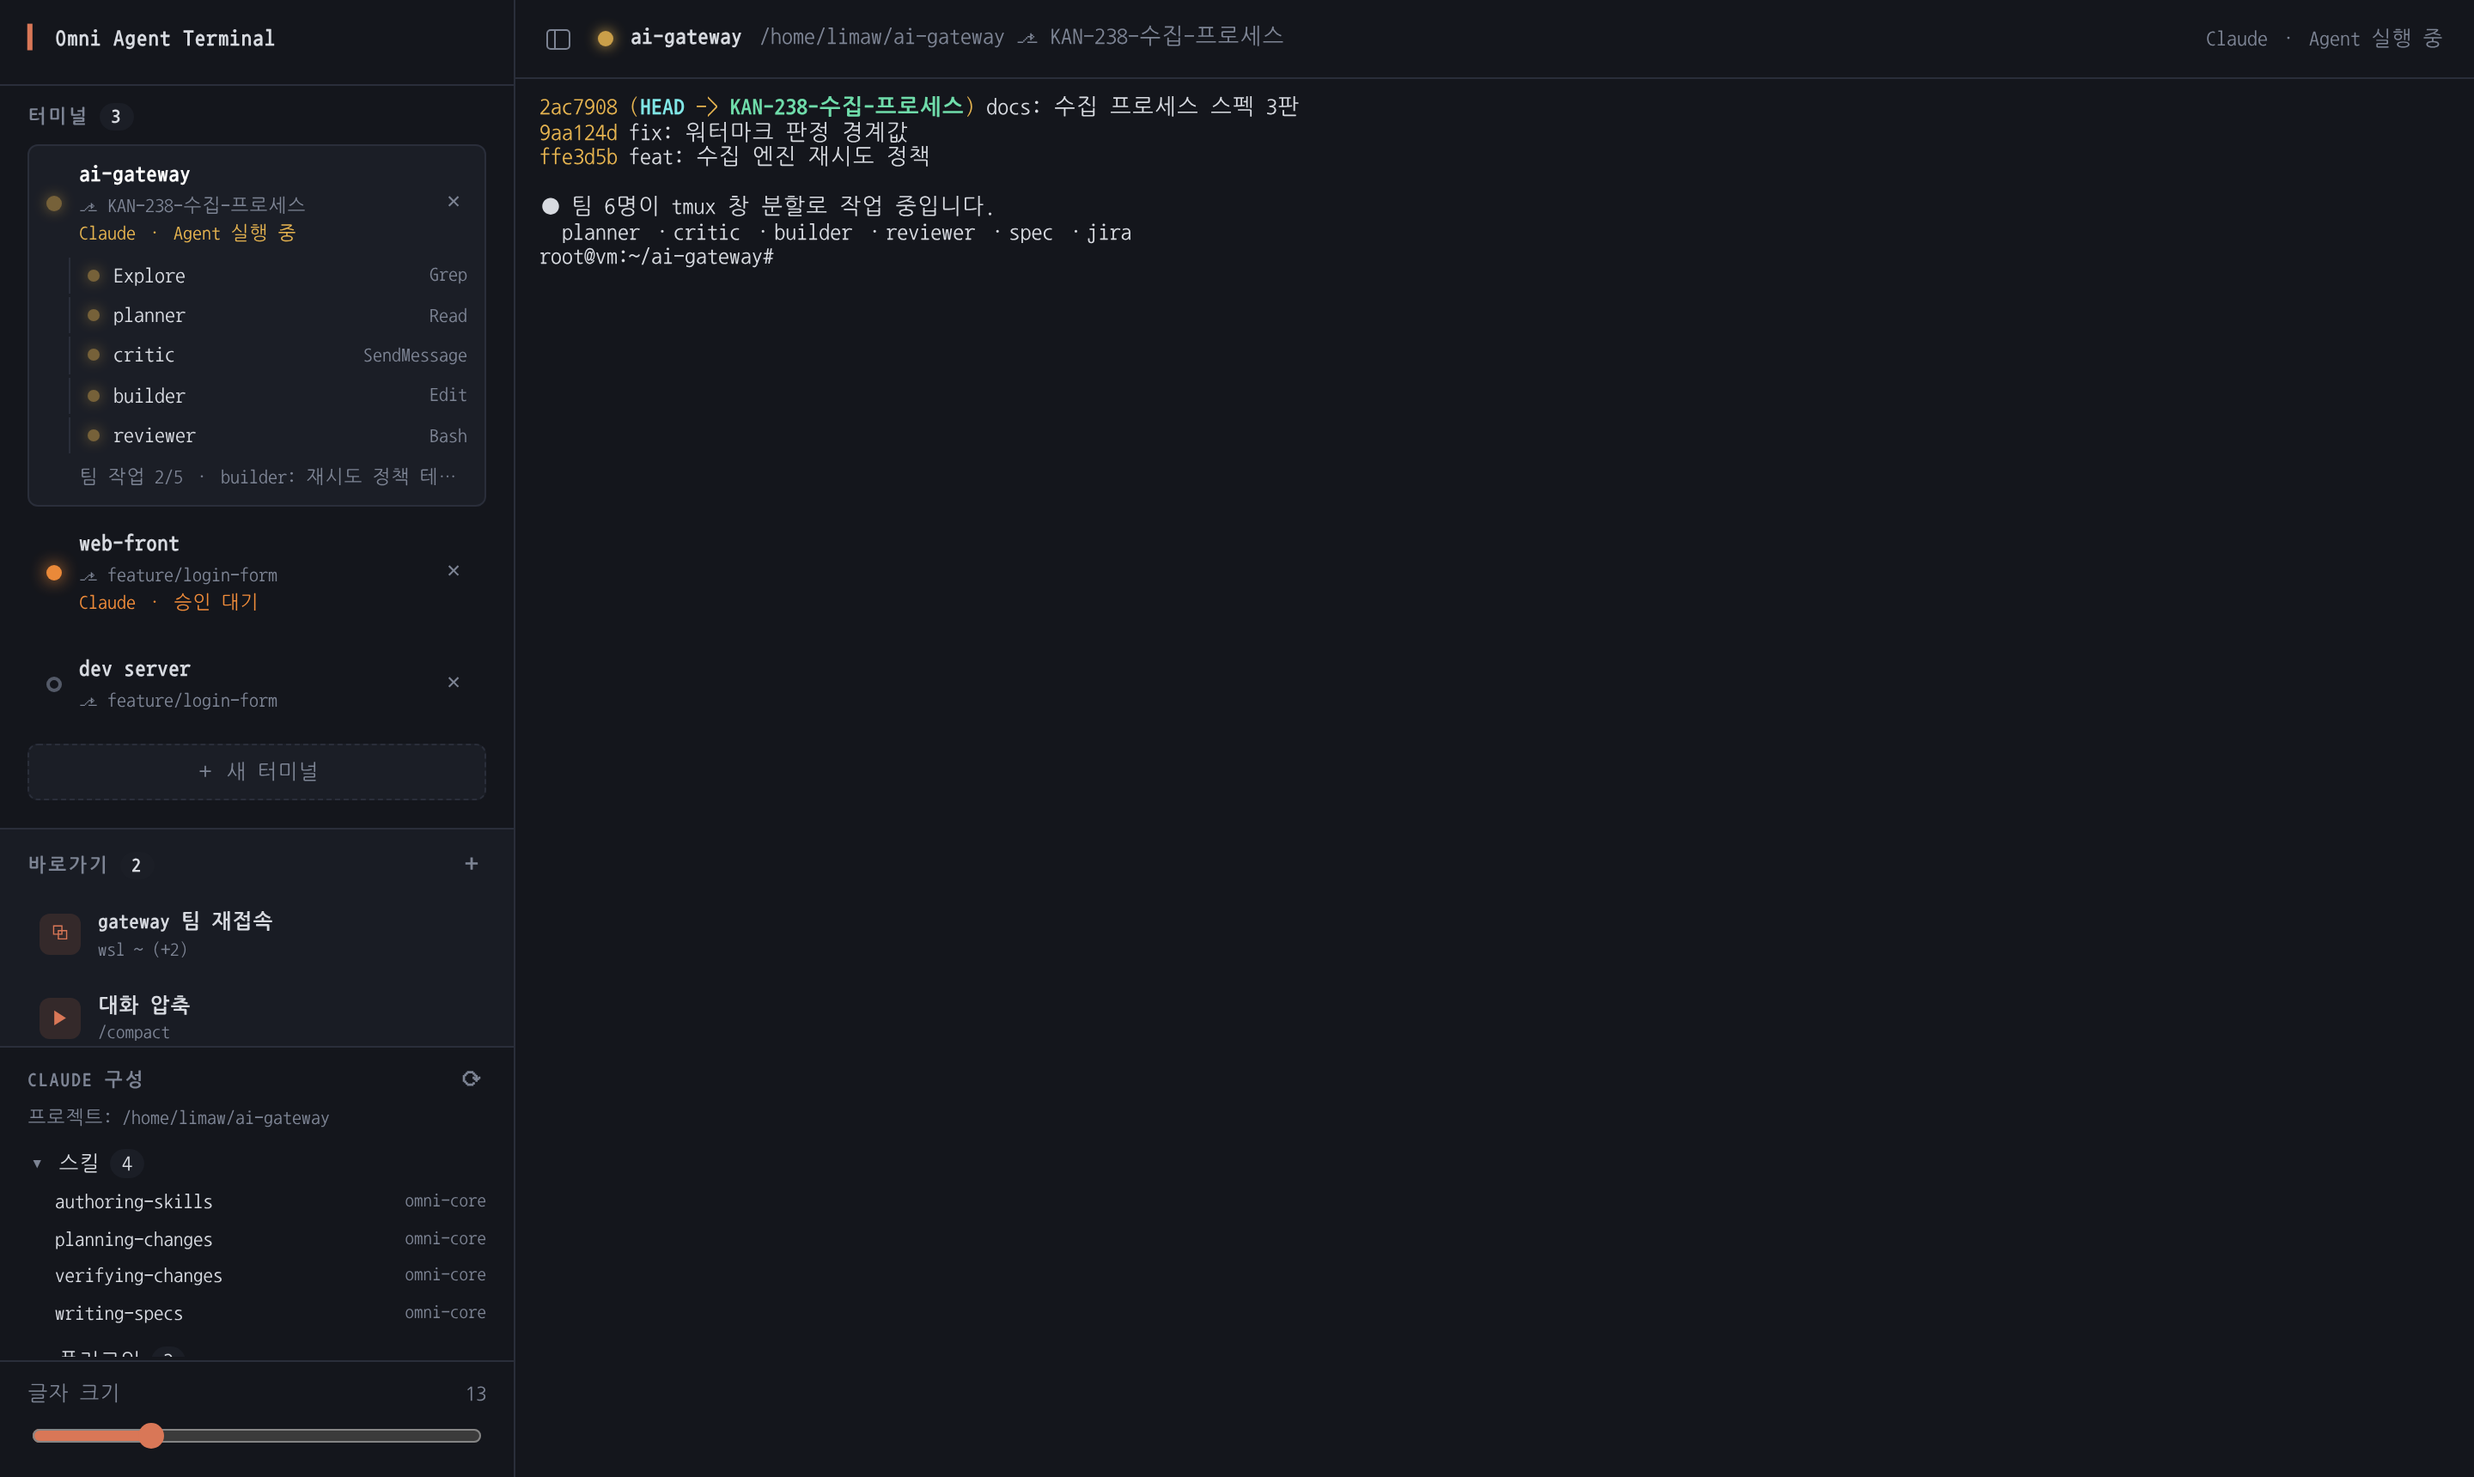
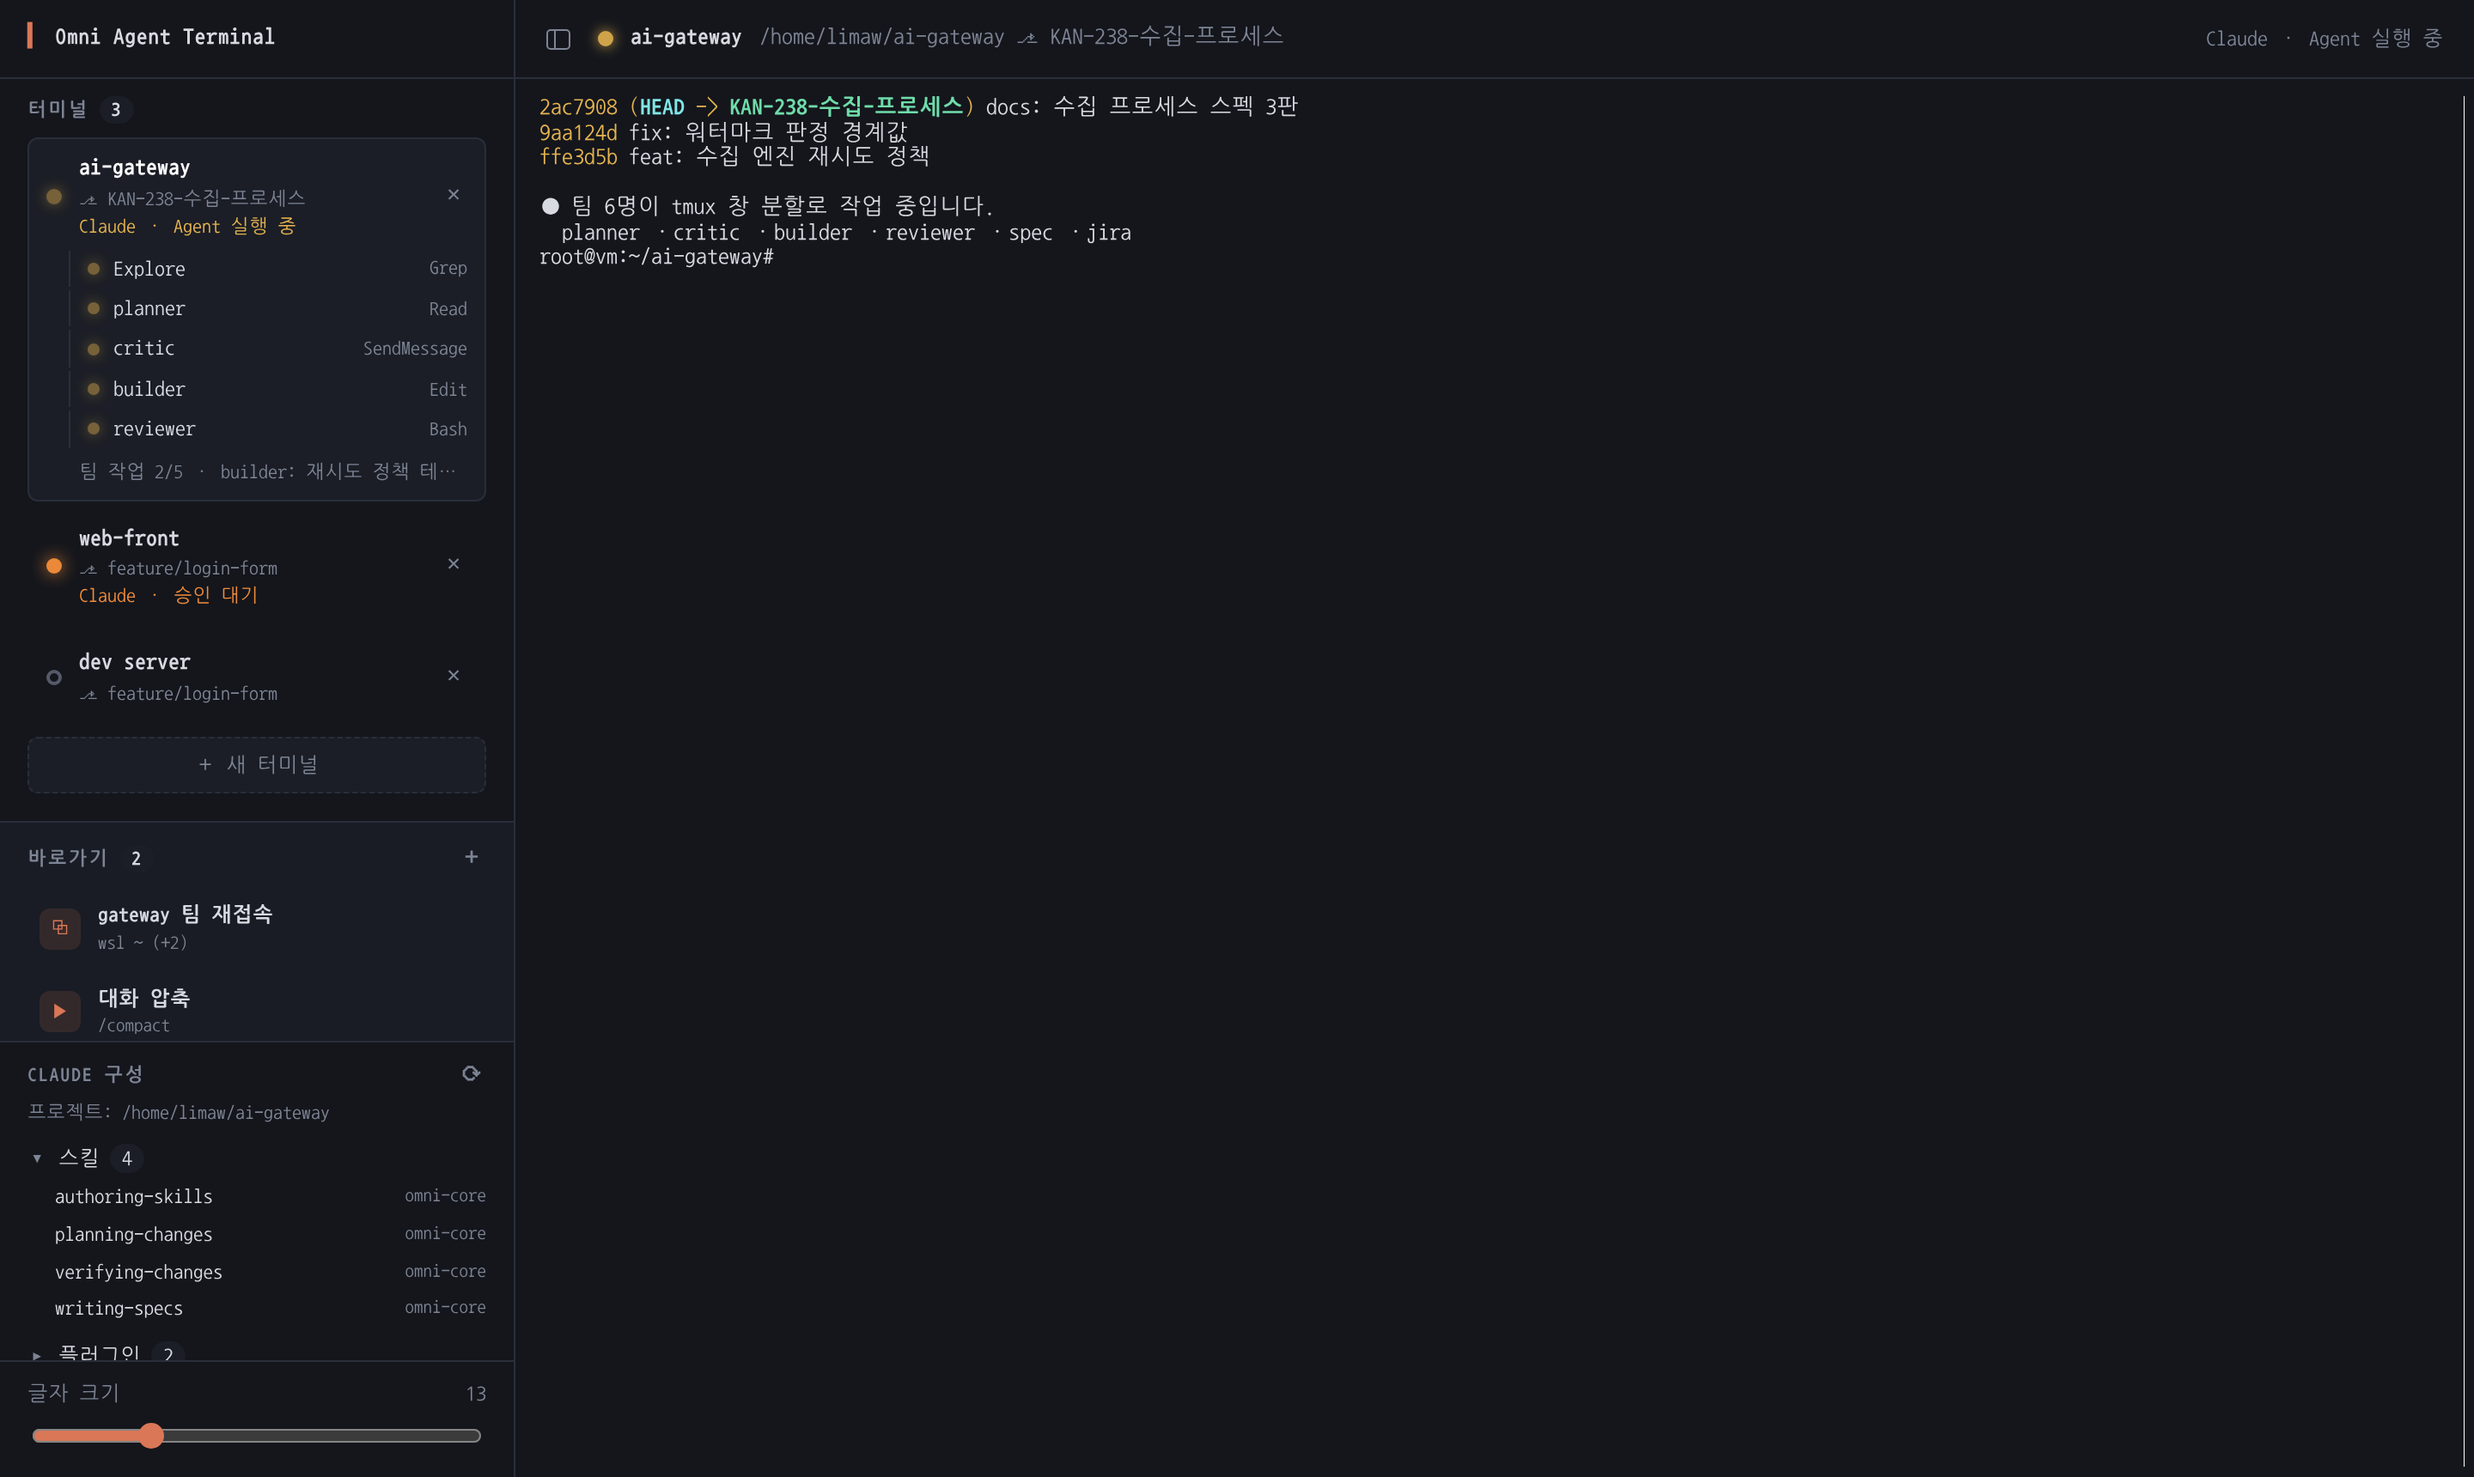
agent-terminal: thin scrollbars; align the sidebar header with the top bar
Scrollbars are 6px everywhere: the page's via ::-webkit-scrollbar, and the
terminal's through overviewRuler.width (xterm 6 sizes its scrollbar from it,
14px by default; the ruler also marks search matches) with matching theme
colours.

The sidebar header was 46.8px tall with its divider at 48.8px while the top
bar is 46px with its border at 46px, so the line and the text sat slightly
off. The header now has the top bar's box (46px, 1px bottom border, centred
text); the duplicate panel border and the sidebar's 2px gaps are gone.
Example screens refreshed.

Claude-Session: https://claude.ai/code/session_01ThbFEw8WRqscoHxtDEMqQC

diff --git a/claude-code/apps/agent-terminal/src/renderer/styles.css b/claude-code/apps/agent-terminal/src/renderer/styles.css
@@ -20,6 +20,14 @@
 }
 
 * { box-sizing: border-box; }
+
+/* thin scrollbars everywhere (the terminal's own is set in renderer.js) */
+::-webkit-scrollbar { width: 6px; height: 6px; }
+::-webkit-scrollbar-track { background: transparent; }
+::-webkit-scrollbar-thumb { background: rgba(125, 132, 148, .28); border-radius: 3px; }
+::-webkit-scrollbar-thumb:hover { background: rgba(125, 132, 148, .5); }
+::-webkit-scrollbar-thumb:active { background: rgba(217, 119, 87, .7); }
+::-webkit-scrollbar-corner { background: transparent; }
 html, body { margin: 0; height: 100%; }
 body {
   background: var(--bg);
@@ -37,14 +45,15 @@ body {
   overflow: hidden !important;
   display: flex;
   flex-direction: column;
-  gap: 2px;
   border-right: 1px solid var(--line);
   overflow-y: auto;
   overflow-x: hidden;
 }
 .brand {
-  display: flex; align-items: center; gap: 8px;
-  padding: 14px 16px;
+  /* same box as .topbar: 46px with a 1px bottom border, centred text */
+  display: flex; align-items: center; gap: 8px; flex: none;
+  height: 46px; padding: 0 16px;
+  border-bottom: 1px solid var(--line);
   font-weight: 700; letter-spacing: .02em;
 }
 .brand-mark { color: var(--accent); }
@@ -229,7 +238,7 @@ body.resizing .terminals { pointer-events: none; }
 
 /* terminals | Claude config, split vertically */
 .sidebar-split { flex: 1; min-height: 0; display: flex; flex-direction: column; }
-.terminals-panel { flex: 0 1 var(--terminals-h, 45%); min-height: 0; overflow-y: auto; display: flex; flex-direction: column; }
+.terminals-panel { border-top: 0; flex: 0 1 var(--terminals-h, 45%); min-height: 0; overflow-y: auto; display: flex; flex-direction: column; }
 .terminals-panel > * { flex: none; }
 .terminals-panel > .shortcuts { flex: 1 0 auto; }
 .config-panel { flex: 1 1 0; min-height: 0; overflow-y: auto; }

diff --git a/claude-code/apps/agent-terminal/src/renderer/renderer.js b/claude-code/apps/agent-terminal/src/renderer/renderer.js
@@ -14,6 +14,10 @@ const TERMINAL_THEME = {
   blue: '#6ea8fe', magenta: '#c792ea', cyan: '#5fd4d4', white: '#d7dae0',
   brightBlack: '#545a68', brightRed: '#ff7a85', brightGreen: '#6fdcaa', brightYellow: '#f5ca6e',
   brightBlue: '#8fbcff', brightMagenta: '#dcaaf5', brightCyan: '#80e6e6', brightWhite: '#ffffff',
+  scrollbarSliderBackground: 'rgba(125, 132, 148, 0.28)',
+  scrollbarSliderHoverBackground: 'rgba(125, 132, 148, 0.5)',
+  scrollbarSliderActiveBackground: 'rgba(217, 119, 87, 0.7)',
+  overviewRulerBorder: 'transparent',
 };
 const FONT_FAMILY = getComputedStyle(document.documentElement).getPropertyValue('--mono').trim();
 const CLAUDE_LABEL = { working: '작업 중', waiting: '승인 대기', idle: '대기', error: '오류' };
@@ -88,6 +92,9 @@ function addAgent(info) {
     cursorBlink: true,
     scrollback: 10000,
     allowProposedApi: true, // search result decorations and counts
+    // xterm 6 sizes its vertical scrollbar from the overview ruler width
+    // (default 14px); the ruler also marks search matches.
+    overviewRuler: { width: 6 },
     theme: TERMINAL_THEME,
   });
   const fit = new FitAddon.FitAddon();
